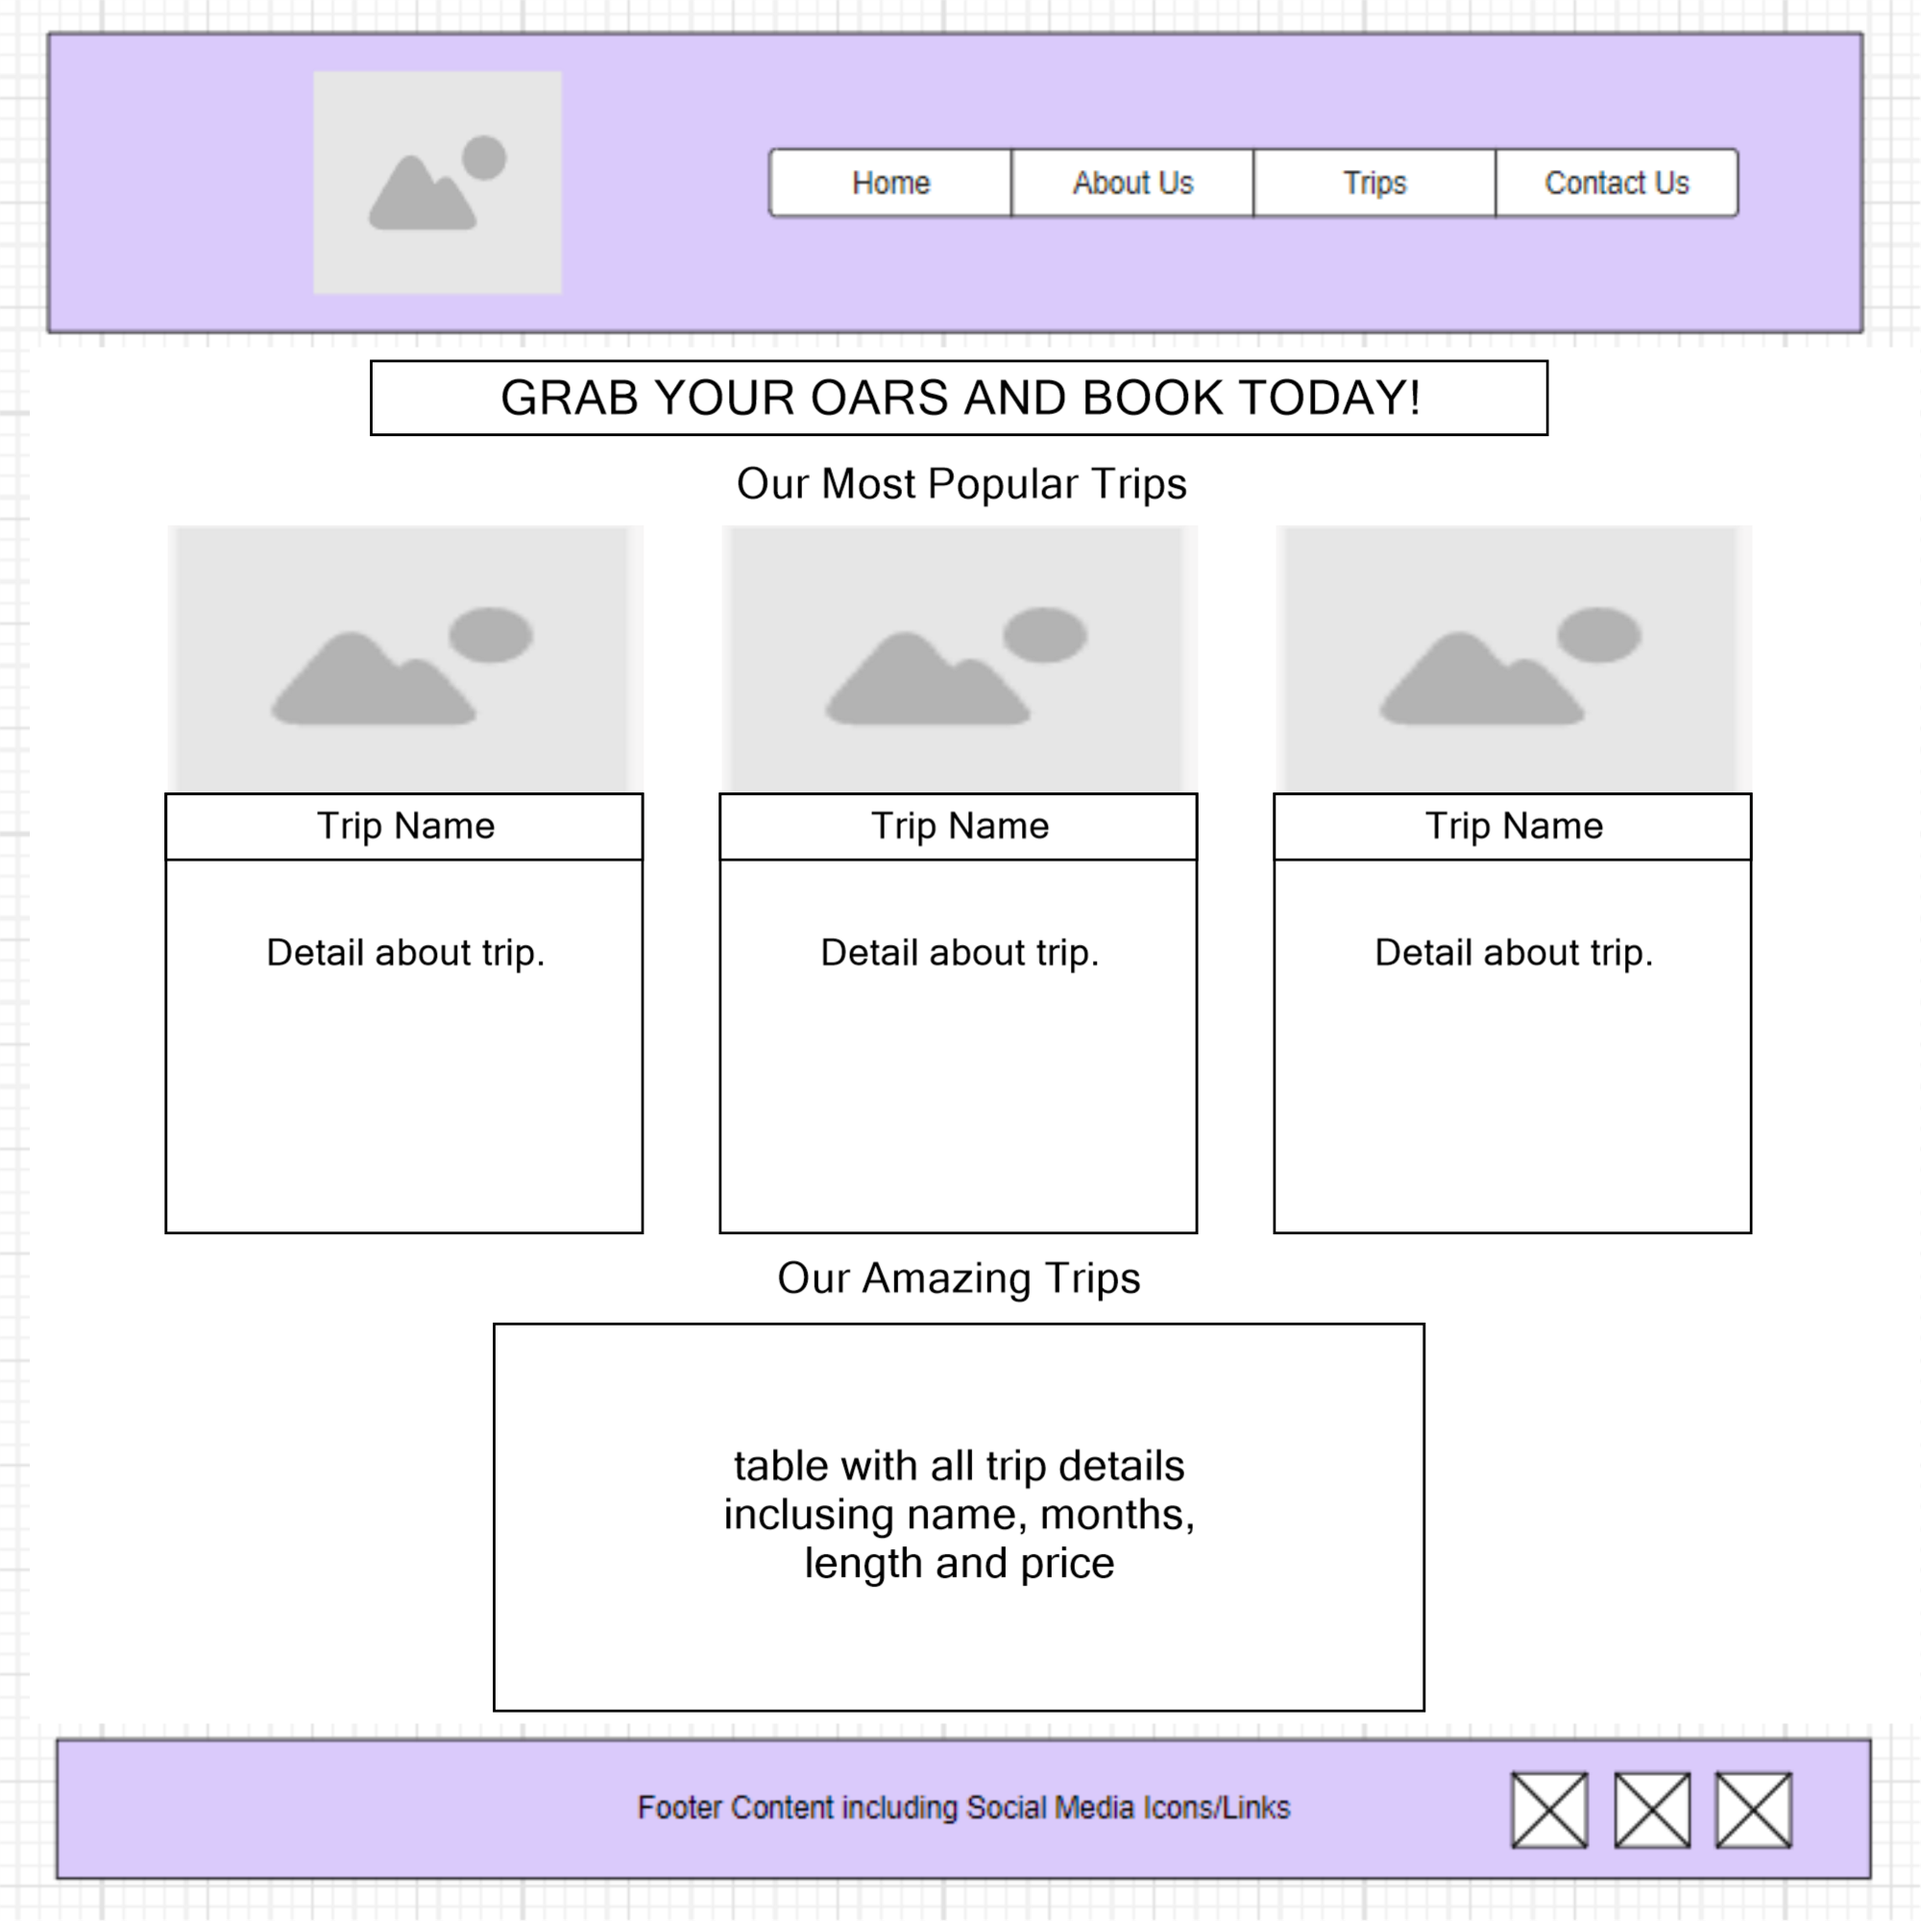
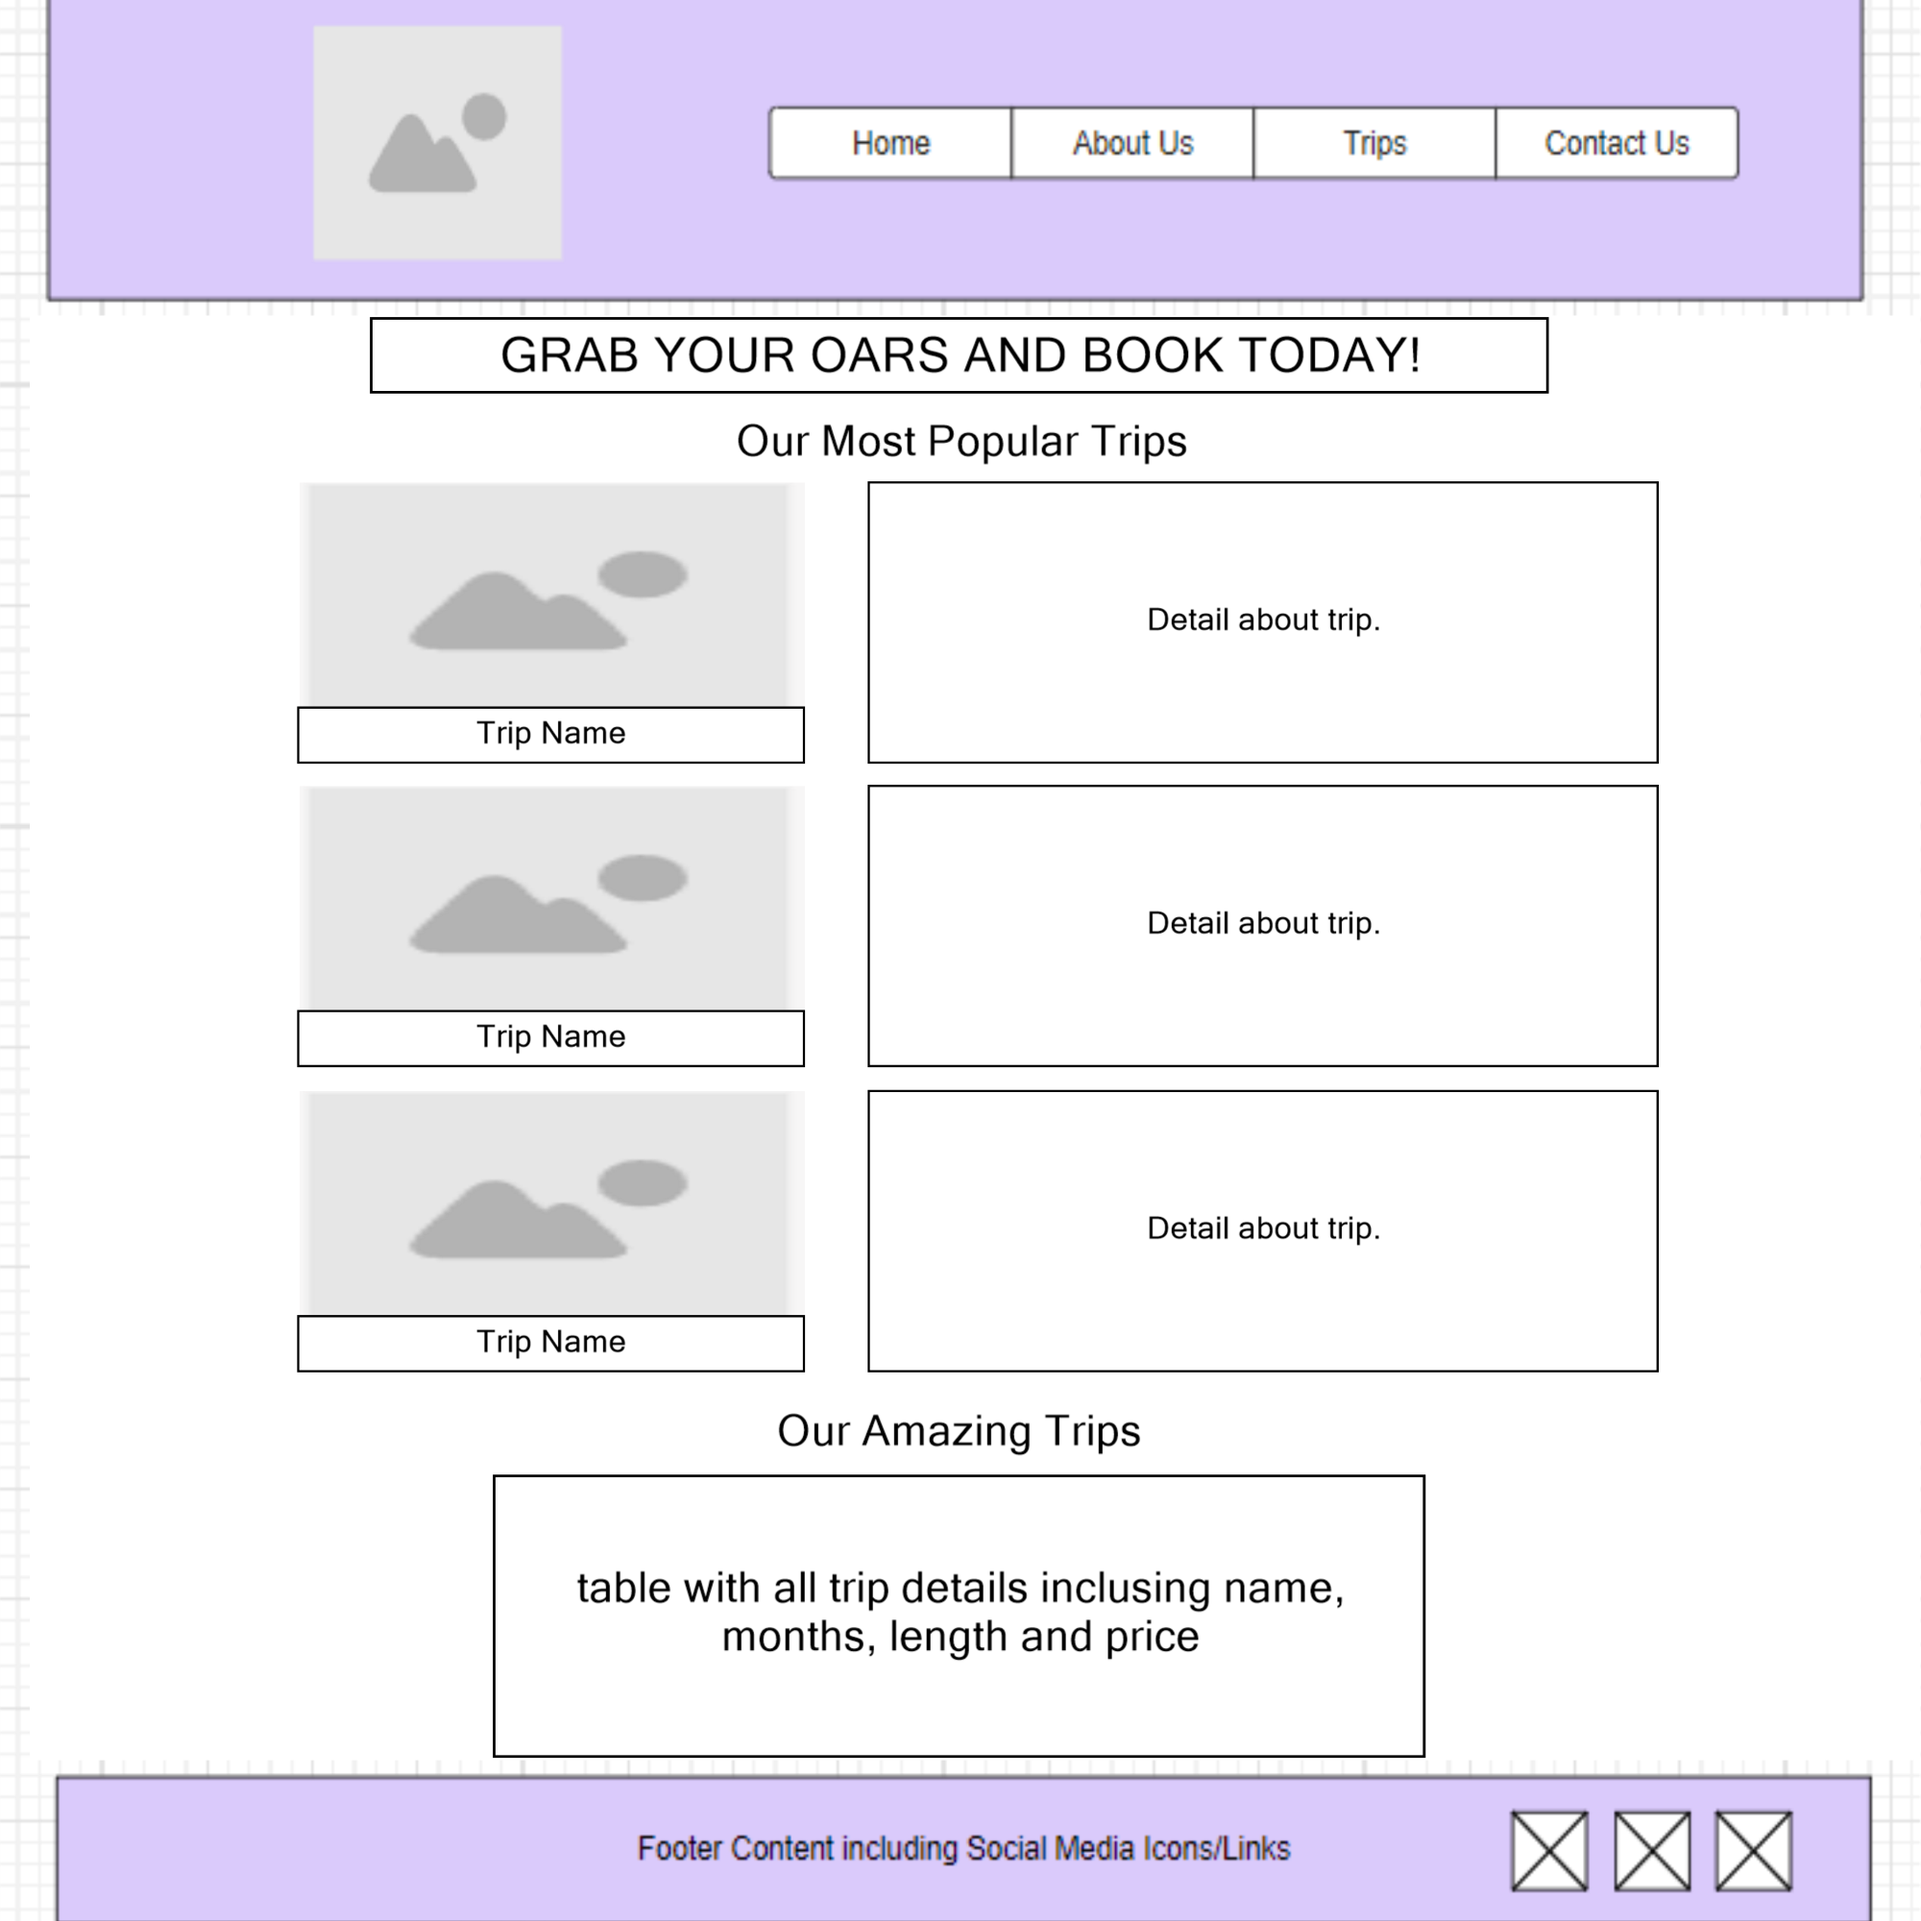
trip fixes

diff --git a/wwr/trips.html b/wwr/trips.html
@@ -26,13 +26,11 @@
                 <h1>GRAB YOUR OARS AND BOOK TODAY!</h1>
             </a></div>
 
-            <section class="trips">
+        <div class="trips-grid">
 
-            <h2>Our Most Popular Trips</h2>
-            
-        <div>
-            <figure>
-                <img src="images/adventureawaits1.jpg" alt="salmon river day trip" width="300">
+           <h2>Our Most Popular Trips</h2>
+           <figure>
+            <a href="contact.html" target="_blank"><img src="images/adventureawaits1.jpg" alt="salmon river day trip" width="300"></a>
                 <figcaption>Salmon River Day Trip</figcaption>
             </figure>
             <p class="trips-item">Suitable for those who want to just spend one perfect day on the river! You will start
@@ -40,10 +38,10 @@
                 with all the gear you need and give you instructions for how to best manage the river. Once that is
                 finished, you will be on your way down the river with stops along the way to refuel and rest. You'll end
                 your day at our landing down river and the be brought back to the launch area via our vans to enjoy an
-                all you can eat barbecue and entertainment.</p>
+                all you can eat barbecue and entertainment. </p>
 
             <figure>
-                <img src="images/adventureawaits3.jpg" alt="beaver beach trip" width="300">
+                <a href="contact.html" target="_blank"><img src="images/adventureawaits3.jpg" alt="beaver beach trip" width="300"></a>
                 <figcaption>Relaxing Beaver Beach Trip</figcaption>
             </figure>
             <p class="trips-item">If a little adventure and a lot of tranquility is more your style, this trip
@@ -51,10 +49,10 @@
                 guides will get everyone all set with their gear and give instructions. Then you'll be off for an
                 hour long ride to Beaver Beach. You'll have the options of swimming, sitting on the shore or
                 exploring along the river's edge until lunch. After that, our vans will pick you up and deliver you
-                back to our main launch area, rested and ready for your evening.</p>
+                back to our main launch area, rested and ready for your evening. </p>
 
             <figure>
-                <img src="images/adventureawaits5.jpg" alt="high adventure trip" width="300">
+                <a href="contact.html" target="_blank"><img src="images/adventureawaits1.jpg" alt="high adventure trip" width="300"></a>
                 <figcaption>4 Day High Adventure Trip</figcaption>
             </figure>
             <p class="trips-item">Calling all thrill seekers and adventurers! Our 4 day High Adventure Trips are
@@ -62,10 +60,9 @@
                 amazing rafting around. Each day will be spent on the river and each evening you will camp at preset
                 locations where there will be time to fish, swim or just enjoy the beaches. Our staff will have camp
                 set up in advance, so after your long days on the river, you won't have to do more work! It's all
-                the adventure without all the work...except paddling!</p>
+                the adventure without all the work...except for the paddling! </p>
 
-        </div>
-    </section>
+            </div>
 
 
         <section class="trip-detail">
@@ -139,7 +136,7 @@
                 <img src="images/pinterest.png" alt="pinterest logo" width="50">
             </a>
         </nav>
-        <a href="https://drive.google.com/file/d/1T-ZErd_M4PSXYIJj--HOOT4E-2KZe4Zc/view?usp=sharing"
+        <a href="https://drive.google.com/file/d/1wdsSL89QANH6uiIi6I2bsolL3GbsC_TQ/view?usp=sharing"
             target="_blank">wireframe</a>
     </footer>
 </body>

diff --git a/wwr/index.html b/wwr/index.html
@@ -1,45 +1,64 @@
 <!DOCTYPE html>
 <html lang="en">
+
 <head>
     <meta charset="UTF-8">
     <meta name="viewport" content="width=device-width,initial-scale=1.0">
     <meta name="description" content="This is the home page for Whitewater Adventures.">
     <meta name="author" content="Kristina Thompson">
     <title>Whitewater Adventures - Home</title>
-    <link rel="stylesheet" href="styles/rafting.css"> 
+    <link rel="stylesheet" href="styles/rafting.css">
 </head>
+
 <body>
     <header>
         <nav>
-        <a href="index.html"><img src="images/logo.png" alt="Whitewater Adventures Logo" width="120"></a>
-        <a href="index.html">Home</a>
-        <a href="about.html">About Us</a>
-        <a href="trips.html">Trips</a>
-        <a href="contact.html">Contact Us</a>
+            <a href="index.html"><img src="images/logo.png" alt="Whitewater Adventures Logo" width="120"></a>
+            <a href="index.html">Home</a>
+            <a href="about.html">About Us</a>
+            <a href="trips.html">Trips</a>
+            <a href="contact.html">Contact Us</a>
         </nav>
     </header>
     <main>
-        
+
         <div class="hero">
             <img src="images/rapids.jpg" alt="riding the rapids">
-            <a href="trips.html" target="_blank"><h1 class="rapids-message">RIDE THE RAPIDS WITH US!</h1></a>
-            
+            <a href="trips.html" target="_blank">
+                <h1 class="rapids-message">RIDE THE RAPIDS WITH US!</h1>
+            </a>
+
         </div>
-            
+        <form class="newsletter-subscribe">
+            <fieldset>
+                <legend><h3>Monthly Newsletter</h3></legend>
+                <div class="form-items column2">
+                <label for="name">Name:</label>
+                <input type="text" id="name" name="name">
+            </div>
+            <div class="form-items column2">  
+            <label for="useremail">Email:</label>
+                <input type="email" id="useremail" name="useremail">
+                </div>
+            </fieldset>
+           
+            <button type="submit">Subsribe Now</button>
+        </form>
     </main>
     <footer>
         <p>&copy;2024 • Whitewater Adventures • Kristina Thompson</p>
         <nav class="sociallinks">
-        <a href="https://facebook.com" target="_blank">
-            <img src="images/facebook.png" alt="facebook logo" width="50">
-        </a>  
-        <a href="https://instagram.com" target="_blank">
-            <img src="images/instagram.png" alt="instagram logo" width="50">
-        </a>
-        <a href="https://pinterest.com" target="_blank">
-            <img src="images/pinterest.png" alt="pinterest logo" width="50"> 
-        </a>
-    </nav>
+            <a href="https://facebook.com" target="_blank">
+                <img src="images/facebook.png" alt="facebook logo" width="50">
+            </a>
+            <a href="https://instagram.com" target="_blank">
+                <img src="images/instagram.png" alt="instagram logo" width="50">
+            </a>
+            <a href="https://pinterest.com" target="_blank">
+                <img src="images/pinterest.png" alt="pinterest logo" width="50">
+            </a>
+        </nav>
     </footer>
 </body>
+
 </html>

diff --git a/wwr/styles/rafting.css b/wwr/styles/rafting.css
@@ -263,29 +263,28 @@ button:hover {
     grid-gap: 20px;
 }
 
-.trips {
-    display: grid;
-    grid-template-columns: repeat(3, 1fr);
-    grid-template-rows: 20px;
-    grid-gap: 20px;
-    align-items: center;
-    justify-content: center;
-    margin: 50px 0 0 0;
 
-}
+    
+    .trips-grid {
+        display: grid;
+        grid-template-columns: 1fr;
+        grid-gap: 1px;
+    }
 
-.trips h2 {
-    grid-column: 1/4;
-    grid-row: 1;
-    justify-self: center;
-    align-self: center;
-}
+    .trips-grid h2 {
+        grid-column-start: 1;
+        grid-column-end: 3;
+        text-align: center;
+        
+    }
 
 .trips-item {
-    background-color: var(--primary-color);
-    color: var(--nav-link-color);
-    font-weight: 500;
+    color: var(--secondary-color);
+    font-weight: 600;
     padding: 10px;
+    font-size: 17px;
+    align-self: center;
+        
 }
 
 .booknow {
@@ -293,9 +292,9 @@ button:hover {
     color: var(--primary-color);
     border-style: double;
     border-color: var(--accent1-color);
-    padding: .1em;
-    width: auto;
+    width:auto;
     font-size: .75em;
+        
 }
 
 .booknow:hover {
@@ -322,7 +321,7 @@ tfoot {
 }
 
 .trip-detail {
-    margin-top: 50px;
+    margin-top: 10px;
     text-align: center;
 }
 
@@ -350,4 +349,10 @@ thead {
     text-decoration: none;
     background: radial-gradient(#06558a, #1e60c2);
     opacity: 0.95;
+}
+
+.newsletter-subscribe {
+    margin-top: 10px;
+    background-color: var(--nav-link-color);
+
 }
